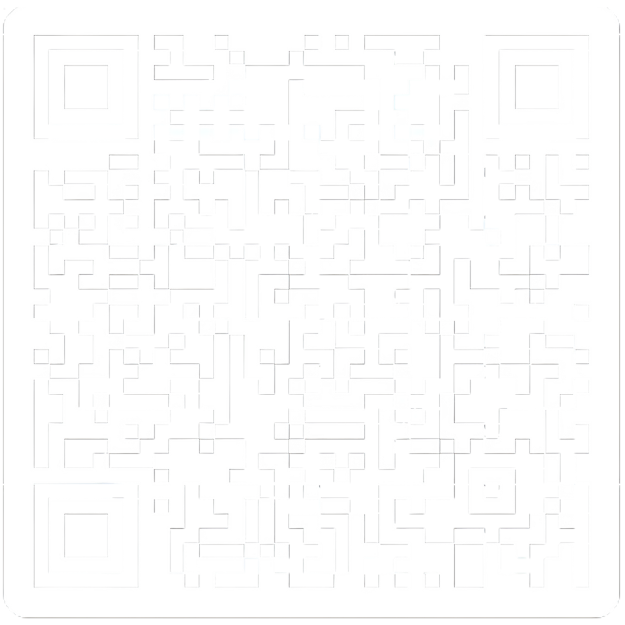
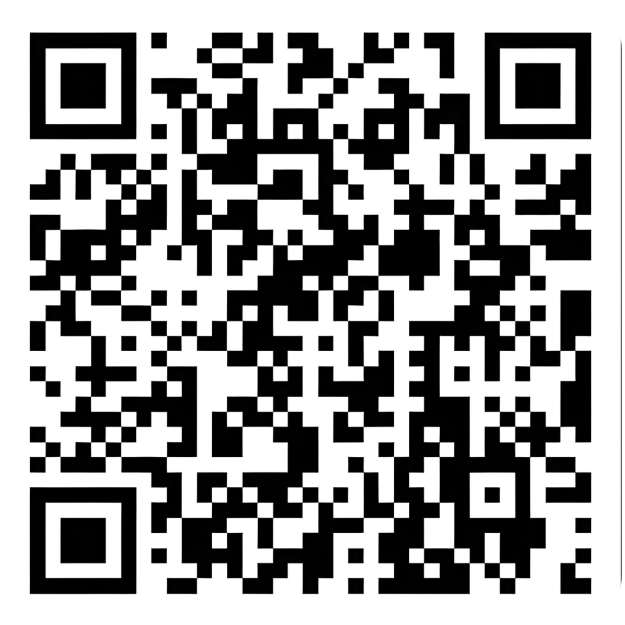
Update QR code and Wayground link in pre_test.html

diff --git a/pre_test.html b/pre_test.html
@@ -497,7 +497,7 @@
                 <span
                   class="code-text"
                   id="codeText"
-                  >42452554</span
+                  >10219466</span
                 >
                 <button
                   class="copy-btn"
@@ -526,7 +526,7 @@
 
           <!-- Wayground button -->
           <a
-            href="https://wayground.com/join?gc=42452554"
+            href="https://wayground.com/join?gc=10219466"
             class="wayground-btn"
             target="_blank"
             rel="noopener noreferrer"
